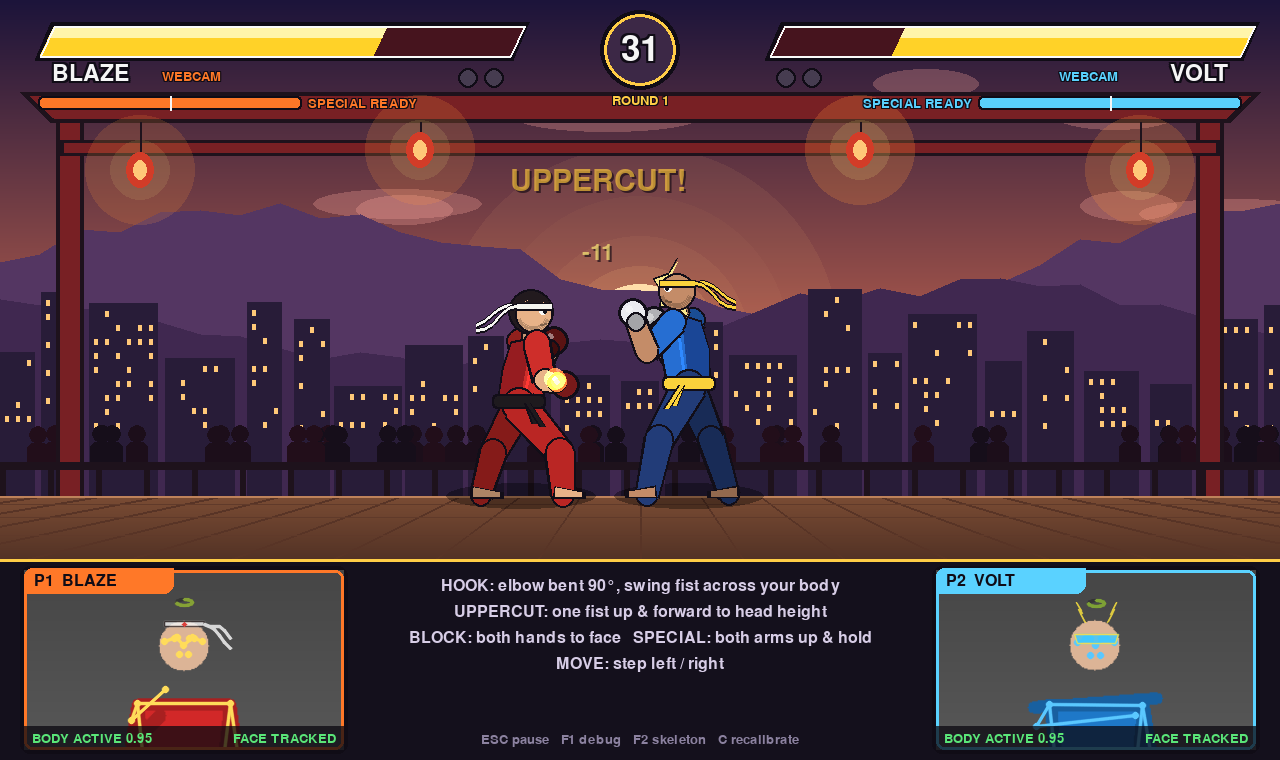
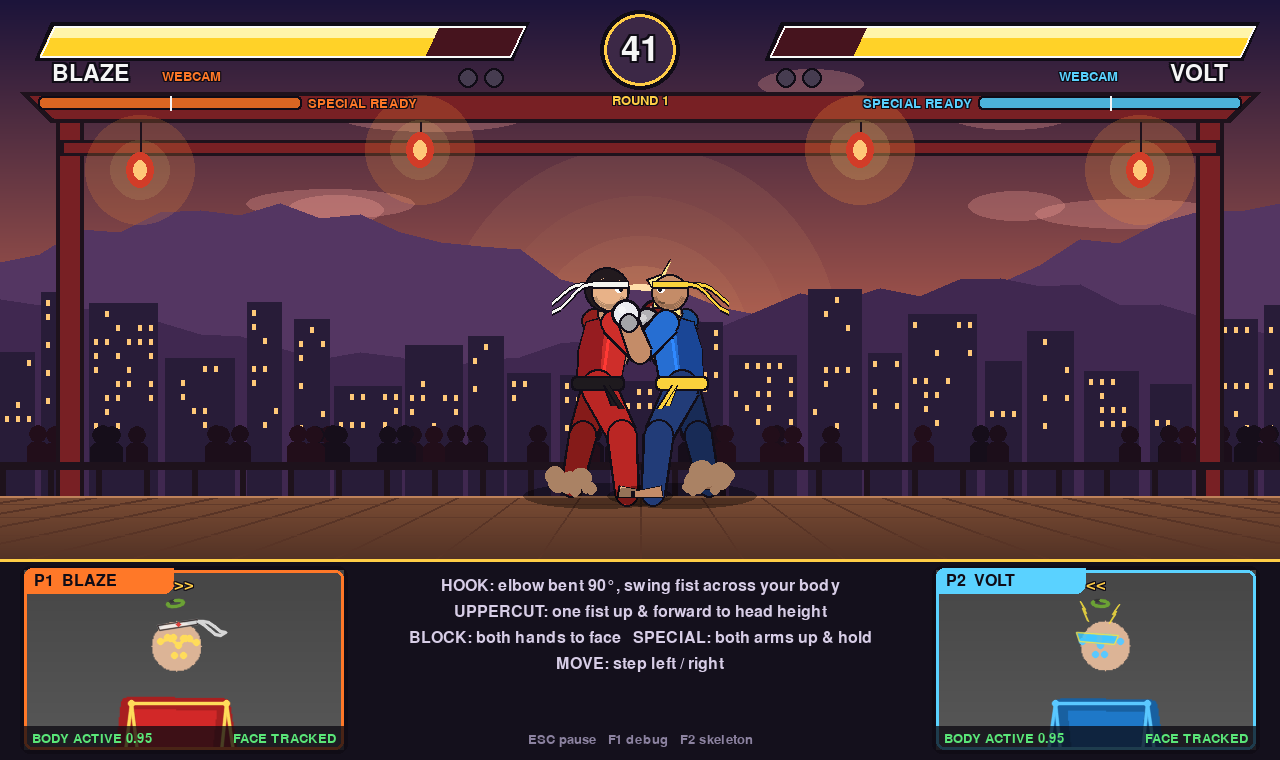
removed recalibrate

diff --git a/IPCV_Fighting_Game/application.py b/IPCV_Fighting_Game/application.py
@@ -126,8 +126,6 @@ class App:
         self.hud.reset()
         self.effects.clear()
         self.hit_flash = [0.0, 0.0]
-        if self.vision:
-            self.vision.request("recalibrate")
 
     # --------------------------------------------------------------- loop
     def run(self) -> None:
@@ -240,9 +238,6 @@ class App:
             if key == pygame.K_ESCAPE:
                 self.session.pause()
                 self.pause_index = 0
-            elif key_is(event, "C") and self.vision:
-                self.vision.request("recalibrate")
-                self.banner.show("RECALIBRATED", 0.8, color=GOLD)
 
     def _annotate(self, key: int) -> None:
         if self.tracking_logger is None:
@@ -440,7 +435,7 @@ class App:
         for h in hints:
             text(self.screen, h, 24, (cx, y), (215, 205, 230), outline=0)
             y += 26
-        text(self.screen, "ESC pause   F1 debug   F2 skeleton   C recalibrate", 20,
+        text(self.screen, "ESC pause   F1 debug   F2 skeleton", 20,
              (cx, self.H - 20), (140, 130, 160), outline=0)
 
     def _render_pause(self) -> None:

diff --git a/IPCV_Fighting_Game/vision/pipeline.py b/IPCV_Fighting_Game/vision/pipeline.py
@@ -164,7 +164,7 @@ class VisionPipeline:
         return out
 
     def request(self, command: str) -> None:
-        """Thread-safe commands executed by the vision thread: 'recalibrate', 'reregister'."""
+        """Thread-safe commands executed by the vision thread: 'reregister'."""
         with self._lock:
             self._commands.append(command)
 
@@ -245,9 +245,7 @@ class VisionPipeline:
             cmds = list(self._commands)
             self._commands.clear()
         for c in cmds:
-            if c == "recalibrate" and self.tracker:
-                self.tracker.recalibrate()
-            elif c == "reregister" and self.tracker:
+            if c == "reregister" and self.tracker:
                 self.tracker.reset_registration()
 
     def _resize(self, img: np.ndarray) -> np.ndarray:

diff --git a/IPCV_Fighting_Game/vision/player_tracking.py b/IPCV_Fighting_Game/vision/player_tracking.py
@@ -185,11 +185,6 @@ class PlayerTracker:
             t.gestures.neutral_x = None
         self._registration_count = 0
 
-    def recalibrate(self) -> None:
-        for t in self.tracks:
-            if t.state == TrackState.ACTIVE:
-                t.gestures.calibrate(t.pose)
-
     @property
     def all_registered(self) -> bool:
         return all(t.registered for t in self.tracks)

diff --git a/IPCV_Fighting_Game/tests/test_fight_session.py b/IPCV_Fighting_Game/tests/test_fight_session.py
@@ -191,7 +191,7 @@ def test_enter_starts_a_solo_fight_from_registration():
         assert app.session.observe(active, [], 0.0)
         assert app.session.phase == FightPhase.FIGHT
         app._on_fight_start()
-        assert app.vision.requests == ["recalibrate"]
+        assert app.vision.requests == []
 
         app.session.reset_calibration()
         nobody = FakeSnapshot(

diff --git a/IPCV_Fighting_Game/README.md b/IPCV_Fighting_Game/README.md
@@ -129,8 +129,8 @@ Input is ignored during the 2-second "ROUND / FIGHT!" intro.
 
 Operator keys: **Esc** pause/quit, **Enter** start/rematch, **F1** debug overlay
 (FPS, latency, tracking signals, full camera view with both skeletons),
-**F2** toggle skeletons in the webcam panels, **C** recalibrate neutral
-positions, **R** (registration screen) re-register players.
+**F2** toggle skeletons in the webcam panels, **R** (registration screen)
+re-register players.
 On a Mac laptop, F1/F2/F5–F8 may need the **fn** key.
 Evaluation annotation keys: see section 6.
 
